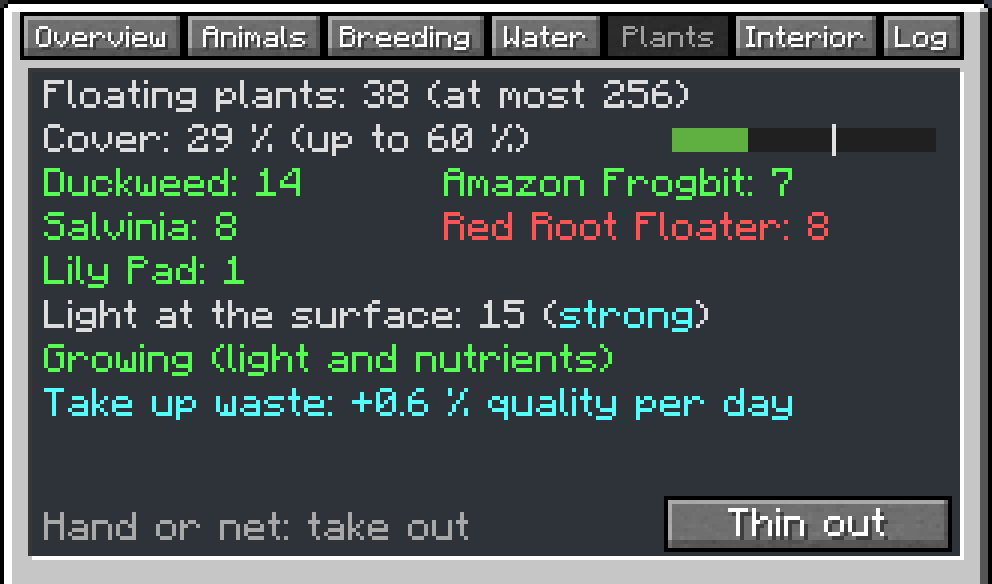
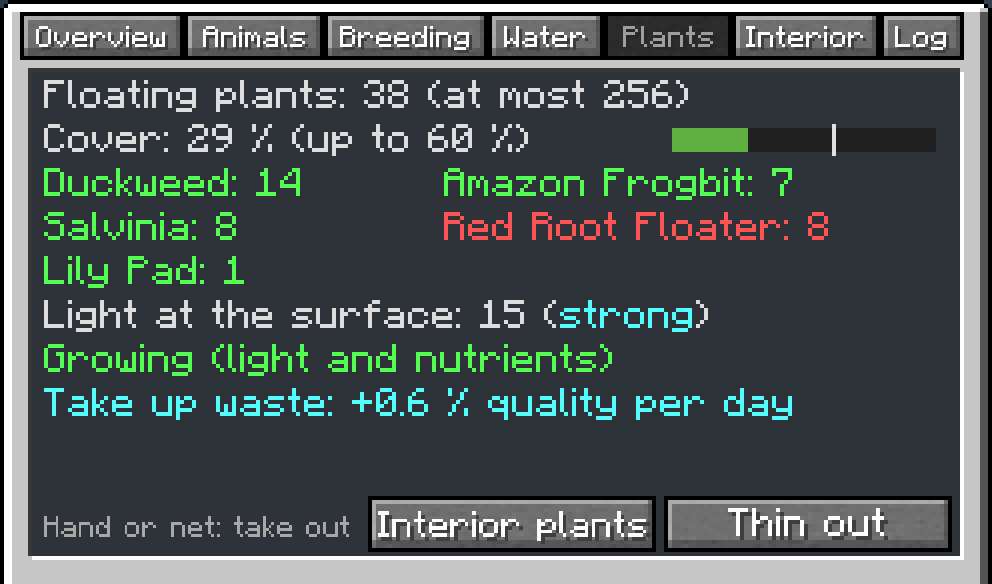
Handbook images of the aquarium plants (the planted tank, inside the interior, red plants in strong and weak light, cropped by guide_images.py m13) and the plants tab images with the new page button; GameTests load the chunks before fillbiome and the outside shears test turns the head too; version 1

Changed region(s): [[0.0312, 0.8322, 0.6875, 0.9555]]

diff --git a/src/main/java/org/overengineer/bettacraft/gametest/AquaticPlantGameTests.java b/src/main/java/org/overengineer/bettacraft/gametest/AquaticPlantGameTests.java
@@ -308,6 +308,7 @@ public final class AquaticPlantGameTests {
             sp.teleportTo(level, eye.x, eye.y - sp.getEyeHeight(), eye.z, 0F, 0F);
             sp.setYRot(0F);
             sp.setXRot(0F);
+            sp.setYHeadRot(0F); // the view vector of a living entity follows its head
             sp.setItemInHand(InteractionHand.MAIN_HAND, new ItemStack(Items.SHEARS));
             BlockPos glass = BlockPos.containing(point.x, point.y, t.min().getZ());
             sp.gameMode.useItemOn(sp, level, sp.getMainHandItem(), InteractionHand.MAIN_HAND,
@@ -318,6 +319,7 @@ public final class AquaticPlantGameTests {
             h.assertTrue(!(sp.containerMenu instanceof TankMenu), "no menu");
             // looking at an empty part of the tank: nothing happens
             sp.teleportTo(level, t.min().getX() + 0.2, eye.y - sp.getEyeHeight(), eye.z, 0F, 0F);
+            sp.setYHeadRot(0F);
             sp.gameMode.useItemOn(sp, level, sp.getMainHandItem(), InteractionHand.MAIN_HAND,
                     new BlockHitResult(new Vec3(t.min().getX() + 0.2, eye.y, t.min().getZ()), Direction.NORTH, t.min(), false));
             h.assertTrue(p.stage == 4 && !(sp.containerMenu instanceof TankMenu), "empty spot: no trim, no menu");
@@ -439,6 +441,7 @@ public final class AquaticPlantGameTests {
             var table = level.getServer().reloadableRegistries().getLootTable(BuiltInLootTables.FISHING);
             for (String biome : new String[]{"minecraft:jungle", "minecraft:river", "minecraft:swamp", "minecraft:plains"}) {
                 BlockPos at = h.absolutePos(new BlockPos(16, 2, 16));
+                for (int x = at.getX() - 4; x <= at.getX() + 4; x += 4) for (int z = at.getZ() - 4; z <= at.getZ() + 4; z += 4) level.getChunk(x >> 4, z >> 4);
                 var src = level.getServer().createCommandSourceStack().withSuppressedOutput().withLevel(level);
                 level.getServer().getCommands().performPrefixedCommand(src, "fillbiome " + (at.getX() - 4) + " " + (at.getY() - 1) + " " + (at.getZ() - 4) + " "
                         + (at.getX() + 4) + " " + (at.getY() + 4) + " " + (at.getZ() + 4) + " " + biome);
@@ -534,6 +537,8 @@ public final class AquaticPlantGameTests {
     }
 
     private static void fillSwamp(ServerLevel level, BlockPos water) {
+        // fillbiome does nothing when a chunk of the box is not loaded: load them first
+        for (int x = water.getX() - 4; x <= water.getX() + 4; x += 4) for (int z = water.getZ() - 4; z <= water.getZ() + 4; z += 4) level.getChunk(x >> 4, z >> 4);
         var src = level.getServer().createCommandSourceStack().withSuppressedOutput().withLevel(level);
         // a few blocks around the water (the biome lookup is fuzzy across neighbouring 4x4x4 cells), inside the loaded template
         level.getServer().getCommands().performPrefixedCommand(src, "fillbiome " + (water.getX() - 4) + " " + (water.getY() - 1) + " " + (water.getZ() - 4) + " "

diff --git a/tools/assetgen/guide_images.py b/tools/assetgen/guide_images.py
@@ -67,6 +67,34 @@ def m12(out_en: Path, out_de: Path) -> None:
                 print("missing", src)
 
 
+# M13 scene (DevClientSmokeM13, -Psmoketestm13 -PnoTop -PnoWthit): the planted tank, inside it, red plants in strong and
+# weak light (side by side). ``py guide_images.py m13`` crops only these.
+M13_WORLD = {"aquatic_plants": ("bettacraft_m13_overview", (240, 330, 1045, 690)),
+             "aquatic_plants_interior": ("bettacraft_m13_interior", (0, 100, 1280, 900))}
+
+
+def m13(out_en: Path) -> None:
+    for name, (shot, box) in M13_WORLD.items():
+        src = SHOTS / f"{shot}.png"
+        if src.exists():
+            save(Image.open(src).convert("RGB").crop(box), out_en / f"{name}.png")
+        else:
+            print("missing", src)
+    strong, weak = SHOTS / "bettacraft_m13_stems.png", SHOTS / "bettacraft_m13_weak_light.png"
+    if strong.exists() and weak.exists():
+        a = Image.open(strong).convert("RGB").crop((370, 290, 1280, 800))
+        b = Image.open(weak).convert("RGB").crop((230, 370, 1060, 640))
+        h = 360
+        a = a.resize((round(a.width * h / a.height), h), Image.LANCZOS)
+        b = b.resize((round(b.width * h / b.height), h), Image.LANCZOS)
+        im = Image.new("RGB", (a.width + b.width + 8, h), (24, 24, 24))
+        im.paste(a, (0, 0))
+        im.paste(b, (a.width + 8, 0))
+        save(im, out_en / "aquatic_plants_red.png")
+    else:
+        print("missing", strong, weak)
+
+
 def save(im: Image.Image, path: Path) -> None:
     """256-colour PNG (screenshots of blocky scenes lose nothing visible, the jar stays small)."""
     im.convert("RGB").quantize(256, method=Image.Quantize.MEDIANCUT, dither=Image.Dither.NONE).save(path, optimize=True)
@@ -83,6 +111,9 @@ def main() -> int:
     out_de.mkdir(parents=True, exist_ok=True)
     if sys.argv[1:] == ["m12"]:
         m12(out_en, out_de)
+        return 0
+    if sys.argv[1:] == ["m13"]:
+        m13(out_en)
         return 0
     for name, box in WORLD.items():
         src = SHOTS / f"guide_{name}.png"
@@ -116,6 +147,7 @@ def main() -> int:
         else:
             print("missing", src)
     m12(out_en, out_de)
+    m13(out_en)
     for kept in ("interior", "hologram"):
         p = out_en / f"{kept}.png"
         if p.exists() and Image.open(p).mode != "P":

diff --git a/src/main/java/org/overengineer/bettacraft/gametest/PlantGameTests.java b/src/main/java/org/overengineer/bettacraft/gametest/PlantGameTests.java
@@ -649,6 +649,8 @@ public final class PlantGameTests {
     }
 
     private static void fillSwamp(ServerLevel level, BlockPos water) {
+        // fillbiome does nothing when a chunk of the box is not loaded: load them first
+        for (int x = water.getX() - 4; x <= water.getX() + 4; x += 4) for (int z = water.getZ() - 4; z <= water.getZ() + 4; z += 4) level.getChunk(x >> 4, z >> 4);
         var src = level.getServer().createCommandSourceStack().withSuppressedOutput().withLevel(level);
         // a few blocks around the water (the biome lookup is fuzzy across neighbouring 4x4x4 cells), inside the loaded template
         level.getServer().getCommands().performPrefixedCommand(src, "fillbiome " + (water.getX() - 4) + " " + (water.getY() - 1) + " " + (water.getZ() - 4) + " "

diff --git a/README.md b/README.md
@@ -30,6 +30,13 @@ block.
   aquarium (lily pads stay put). With light and nutrients they grow, put out offshoots and take up waste; the red root
   floater turns red under strong light; the male builds his nest under them. Found in swamp water bottles, by fishing
   in swamps and from the wandering trader; an empty hand or the aquarium net take them out again.
+- **Aquarium plants:** 17 plants for the interior (Java fern, Anubias, four Bucephalandras, Java moss, Cryptocorynes
+  incl. the pink "Flamingo", Amazon sword, Rotala, Ludwigia, Alternanthera, Vallisneria, Monte Carlo, red tiger lotus).
+  A cutting smaller than a block grows over the days into a plant of many blocks, also while nobody is inside, and the
+  miniature grows along; red plants get redder in strong light. Trim with shears (inside or from outside on the
+  glass), divide rhizomes, take plants out by their root. They clean the water, hide the female after spawning and
+  give a small breeding bonus. Found by fishing in jungles, rivers and swamps, in swamp water, on moss next to water
+  and from the wandering trader.
 - **Power (optional):** a server can make heaters, coolers, filters and lights need Forge Energy from any FE mod.
 - **Live food breeding:** a larva tub for mosquito larvae and an artemia hatchery for nauplii, both with hoppers.
 - **Breeding:** conditioning with live food, bubble nest, spawning, eggs, larvae and six life stages. Take the
@@ -92,7 +99,7 @@ The handbook (GuideME) and the JEI pages explain everything else.
 
 | File | Content |
 |---|---|
-| `<world>/serverconfig/bettacraft-server.toml` | game rules per world: tank size, shapes and limits, health timers, temperature, breeding, fights, food, life stages, interior, drops, water quality, floating plants, evaporation, power, food breeding, handbook, time in unloaded chunks |
+| `<world>/serverconfig/bettacraft-server.toml` | game rules per world: tank size, shapes and limits, health timers, temperature, breeding, fights, food, life stages, interior, drops, water quality, floating plants, aquarium plants, evaporation, power, food breeding, handbook, time in unloaded chunks |
 | `config/bettacraft-common.toml` | spawn weight and group size of wild bettas, fish bag recipe (kelp or plastic) |
 | `config/bettacraft-client.toml` | animation and miniature distances, water surface animation, filter sound |
 
@@ -105,8 +112,9 @@ and evaporation are on but gentle, and no equipment needs power (`power.*Require
 - **Tags:** `#bettacraft:betta_spawn_biomes`, `#bettacraft:salt_water_biomes` (biomes); `#bettacraft:tank_inhabitants`,
   `#bettacraft:tank_blacklist`, `#bettacraft:predators`, `#bettacraft:betta_prey` (entity types);
   `#bettacraft:betta_food`, `#bettacraft:live_food`, `#bettacraft:fry_food`, `#bettacraft:fry_food_start`,
-  `#bettacraft:pellet_fish`, `#bettacraft:plastic_sheets` (items); `#bettacraft:floating_plants`,
-  `#bettacraft:interior_water_plants`, `#bettacraft:substrate_blacklist`, `#bettacraft:artemia_sand` (blocks).
+  `#bettacraft:pellet_fish`, `#bettacraft:plastic_sheets`, `#bettacraft:aquatic_plants` (items); `#bettacraft:floating_plants`,
+  `#bettacraft:interior_water_plants`, `#bettacraft:substrate_blacklist`, `#bettacraft:artemia_sand`, `#bettacraft:epiphyte_surfaces`,
+  `#bettacraft:plant_substrate` (blocks).
 - **Datapacks:** `data/<namespace>/bettacraft/colors/*.json`, `.../genes/<locus>.json` and `.../varieties/*.json`
   add or change colours, allele ranks and frequencies, and named varieties.
 - **Commands:** `/bettacraft interior leave` for everyone; operators: `/bettacraft interior resync` and

diff --git a/CHANGELOG.md b/CHANGELOG.md
@@ -4,6 +4,40 @@ All notable changes to Bettacraft. The format follows [Keep a Changelog](https:/
 versions follow [Semantic Versioning](https://semver.org/). The release workflow publishes the section of the tagged
 version as release notes.
 
+## [1.5.0-beta.1] - 2026-11-13
+
+### Added
+- **Aquarium plants** for the interior of an aquarium, 17 of them: Java fern, Anubias nana, Bucephalandra "Green Wavy",
+  "Brownie Red" (red), "Blue" (bluish) and "Mini Needle", Java moss, Cryptocoryne wendtii green and brown,
+  Cryptocoryne "Flamingo" (whitish pink), Amazon sword, Rotala rotundifolia (red tips), Ludwigia repens (red),
+  Alternanthera reineckii (deep red), Vallisneria, Monte Carlo and the red tiger lotus.
+- Plant a **cutting** (smaller than a block) inside the interior: epiphytes on stone and wood (also the decoration),
+  Java moss on any solid block, the others on substrate (the floor with a substrate, sand, gravel, dirt, mud, clay).
+  Over the days it grows into a plant of **many blocks** (fronds, leaves, stems, ribbons, a carpet, floating leaves),
+  each plant a little different. Buceps take about 20 days to full size, the Java fern 12, stem plants and
+  Vallisneria 2-3 days.
+- Plants grow with light at the surface, the waste in the water as nutrients and 20-30 °C, **also while nobody is in
+  the interior**: the aquarium keeps track of every plant and writes the blocks of a new stage when it is due, the
+  miniature follows (also for other players in multiplayer). Red plants get redder in strong light; the Flamingo
+  crypt gets brighter and pinker.
+- Stem plants grow up to the surface and run along it, form side shoots; Vallisneria, Monte Carlo and the crypts
+  send out runners; the tiger lotus sends floating leaves up. Plants at the surface shade the aquarium together with
+  dense floating plants (warning in the menu).
+- **Shears** trim a plant inside the interior, or **from outside on the glass**: the plant you look at in the
+  miniature; you get cuttings. Breaking a rhizome piece divides an epiphyte, breaking the root takes the whole plant
+  out (the item keeps its size). Plants follow when aquariums are joined or split and drop when their block is broken.
+- Plants take up waste while they have light, are **hiding spots** for the female after spawning (the male chases her
+  less often) and a well planted aquarium makes the male ready a little faster. Bettas swim around them.
+- Getting them: fishing in jungles and rivers (epiphytes; "Blue" and "Brownie Red" rare), fishing in swamps and
+  swamp water bottles (Cryptocoryne, Ludwigia, Rotala), shears on a moss block next to water (Java moss), the
+  wandering trader (sword, Vallisneria, Monte Carlo, Alternanthera; rarely the tiger lotus and the Flamingo crypt).
+- Second page of the **Plants** tab in the tank menu: the aquarium plants per species (in their colour), plant mass,
+  light, growth, waste uptake, hiding spots, breeding bonus and the shade warning.
+- Server settings `interiorPlants.*`, handbook page "Aquarium plants" (English and German), JEI information.
+
+### Changed
+- Interior regions are saved as schema 4 (with an empty plant index for older worlds).
+
 ## [1.4.0-beta.1] - 2026-11-12
 
 ### Added
